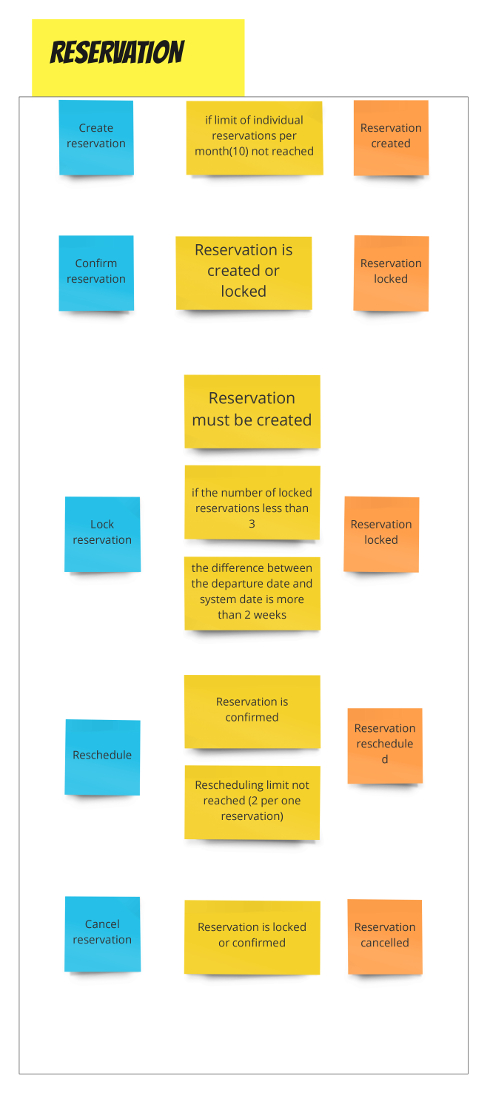
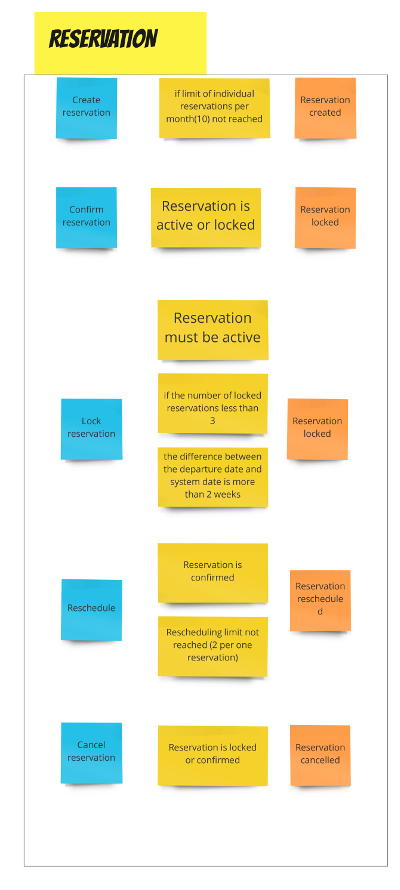
reservations

diff --git a/src/main/java/mw/ars/reservations/reservation/model/Reservation.java b/src/main/java/mw/ars/reservations/reservation/model/Reservation.java
@@ -1,28 +1,72 @@
 package mw.ars.reservations.reservation.model;
 
+import lombok.AllArgsConstructor;
 import mw.ars.commons.model.Result;
+import mw.ars.reservations.reservation.common.model.CustomerId;
+import mw.ars.reservations.reservation.common.model.FligtId;
+import mw.ars.reservations.reservation.common.model.ReservationId;
+import org.javamoney.moneta.Money;
 
 import java.time.LocalDate;
 import java.time.LocalDateTime;
 import java.time.Period;
+import java.util.UUID;
 
+@AllArgsConstructor
 public class Reservation {
-
-  private LockedReservation lockedReservation;
-  private MonthlyReservation monthlyReservation;
-  private RescheduledReservation rescheduledReservation;
-
-  private Status currentStatus;
+  private static int TWO_WEEKS_DAYS = 14;
+  private ReservationId id;
+  private CustomerId customerId;
+  private FligtId flightId;
   private LocalDateTime departureDate;
+  private Money price;
+
+  private CurrentlyLocked currentlyLocked;
+  private ReservedThisMonth reservedThisMonth;
+  private RescheduledSoFar rescheduledSoFar;
+  private Status currentStatus;
+
+  private Reservation(
+      CustomerId customerId,
+      FligtId flightId,
+      LocalDateTime departureDate,
+      Money price,
+      CurrentlyLocked currentlyLocked,
+      ReservedThisMonth reservedThisMonth,
+      RescheduledSoFar rescheduledSoFar) {
+
+    this.id = ReservationId.of(UUID.randomUUID());
+    this.currentStatus = Status.NEW;
+
+    this.customerId = customerId;
+    this.flightId = flightId;
+    this.departureDate = departureDate;
+    this.price = price;
+    this.currentlyLocked = currentlyLocked;
+    this.reservedThisMonth = reservedThisMonth;
+    this.rescheduledSoFar = rescheduledSoFar;
+  }
+
+  public static Reservation of(
+      CustomerId customerId,
+      FligtId flightId,
+      LocalDateTime departureDate,
+      Money price,
+      CurrentlyLocked currentlyLocked,
+      ReservedThisMonth reservedThisMonth,
+      RescheduledSoFar rescheduledSoFar) {
+
+    return new Reservation(
+        customerId, flightId, departureDate, price, currentlyLocked, reservedThisMonth, rescheduledSoFar);
+  }
 
   // BLUE CARD
-
-  public Result create() {
-    if (monthlyReservation.limitReached()) {
+  public Result activate() {
+    if (reservedThisMonth.limitReached()) {
       return Result.failure();
     }
-    currentStatus = Status.NEW;
-    monthlyReservation.create();
+    currentStatus = Status.ACTIVE;
+    reservedThisMonth.create();
     return Result.success();
   }
 
@@ -36,20 +80,20 @@ public class Reservation {
   }
   // BLUE CARD
   public Result lock() {
-    if (!isCreated() || departureDateLessThan() || lockedReservation.limitReached()) {
+    if (!isCreated() || departureDateLessThan() || currentlyLocked.limitReached()) {
       return Result.failure();
     }
     currentStatus = Status.LOCKED;
-    lockedReservation.lock();
+    currentlyLocked.add();
     return Result.success();
   }
   // BLUE CARD
 
   public Result reschedule() {
-    if (!isConfirmed() || rescheduledReservation.limitReached()) {
+    if (!isConfirmed() || rescheduledSoFar.limitReached()) {
       return Result.failure();
     }
-    rescheduledReservation.reschedule();
+    rescheduledSoFar.add();
     currentStatus = Status.RESCHEDULED;
     return Result.success();
   }
@@ -76,8 +120,7 @@ public class Reservation {
   }
 
   private boolean departureDateLessThan() {
-    return Period.between(LocalDate.now(), departureDate.toLocalDate()).getDays()
-        < LockedReservation.TWO_WEEKS_DAYS;
+    return Period.between(LocalDate.now(), departureDate.toLocalDate()).getDays() < TWO_WEEKS_DAYS;
   }
 
   enum Status {
@@ -85,49 +128,61 @@ public class Reservation {
     LOCKED,
     CONFIRMED,
     CANCELED,
-    RESCHEDULED;
+    RESCHEDULED,
+    ACTIVE
   }
 
-  public static class MonthlyReservation {
-
+  @AllArgsConstructor
+  public static class ReservedThisMonth {
     private static int RESERVATIONS_PER_MONTH_LIMIT = 10;
-    private int reservedInThisMonth;
+    private int bookedThisMonth;
+
+    public static ReservedThisMonth of(int reservedInMonth) {
+      return new ReservedThisMonth(reservedInMonth);
+    }
 
     boolean limitReached() {
-      return reservedInThisMonth == RESERVATIONS_PER_MONTH_LIMIT;
+      return bookedThisMonth == RESERVATIONS_PER_MONTH_LIMIT;
     }
 
     void create() {
-      reservedInThisMonth++;
+      bookedThisMonth++;
     }
   }
 
-  public static class RescheduledReservation {
+  @AllArgsConstructor
+  public static class RescheduledSoFar {
 
     static int RESCHEDULING_LIMIT = 3;
     int rescheduledSoFar;
+
+    public static RescheduledSoFar of(int rescheduledSoFar) {
+      return new RescheduledSoFar(rescheduledSoFar);
+    }
 
     boolean limitReached() {
       return rescheduledSoFar == RESCHEDULING_LIMIT;
     }
 
-    void reschedule() {
+    void add() {
       rescheduledSoFar++;
     }
   }
 
-  public static class LockedReservation {
-
+  @AllArgsConstructor
+  public static class CurrentlyLocked {
     private static int LOCKED_RESERVATION_LIMIT = 3;
-
-    private static int TWO_WEEKS_DAYS = 14;
     private int lockedSoFar;
+
+    public static CurrentlyLocked of(int lockedSoFar) {
+      return new CurrentlyLocked(lockedSoFar);
+    }
 
     boolean limitReached() {
       return lockedSoFar == LOCKED_RESERVATION_LIMIT;
     }
 
-    void lock() {
+    void add() {
       lockedSoFar++;
     }
   }

diff --git a/src/test/java/mw/ars/reservations/reservation/model/ReservationFixture.java b/src/test/java/mw/ars/reservations/reservation/model/ReservationFixture.java
@@ -1,0 +1,30 @@
+package mw.ars.reservations.reservation.model;
+
+import mw.ars.reservations.reservation.common.model.CustomerId;
+import mw.ars.reservations.reservation.common.model.FligtId;
+import org.javamoney.moneta.Money;
+
+import javax.money.Monetary;
+import java.math.BigDecimal;
+import java.time.LocalDateTime;
+import java.util.UUID;
+
+class ReservationFixture {
+
+  public static Reservation simple() { return reservation(0,0,0); }
+
+
+
+  private static Reservation reservation(int lockedSoFar, int reservedThisMonth, int rescheduledSoFar) {
+    return Reservation.of(
+            CustomerId.of(UUID.randomUUID()),
+            FligtId.of(UUID.randomUUID()),
+            LocalDateTime.now(),
+            Money.of(new BigDecimal(10), Monetary.getCurrency("USD")),
+            Reservation.CurrentlyLocked.of(lockedSoFar),
+            Reservation.ReservedThisMonth.of(reservedThisMonth),
+            Reservation.RescheduledSoFar.of(rescheduledSoFar));
+
+  }
+
+}

diff --git a/src/main/java/mw/ars/reservations/reservation/common/model/ReservationId.java b/src/main/java/mw/ars/reservations/reservation/common/model/ReservationId.java
@@ -1,0 +1,15 @@
+package mw.ars.reservations.reservation.common.model;
+
+import java.util.UUID;
+
+public class ReservationId {
+    private UUID id;
+
+    private ReservationId(UUID id){
+        this.id=id;
+    }
+
+    public static ReservationId of(UUID id){
+        return new ReservationId(id);
+    }
+}

diff --git a/src/main/java/mw/ars/reservations/reservation/common/model/CustomerId.java b/src/main/java/mw/ars/reservations/reservation/common/model/CustomerId.java
@@ -1,0 +1,15 @@
+package mw.ars.reservations.reservation.common.model;
+
+import java.util.UUID;
+
+public class CustomerId{
+    private UUID id;
+
+    private CustomerId(UUID id){
+        this.id=id;
+    }
+
+    public static CustomerId of(UUID id){
+        return new CustomerId(id);
+    }
+}

diff --git a/src/main/java/mw/ars/reservations/reservation/common/model/FligtId.java b/src/main/java/mw/ars/reservations/reservation/common/model/FligtId.java
@@ -1,0 +1,15 @@
+package mw.ars.reservations.reservation.common.model;
+
+import java.util.UUID;
+
+public class FligtId{
+    private UUID id;
+
+    private FligtId(UUID id){
+        this.id=id;
+    }
+
+    public static FligtId of(UUID id){
+        return new FligtId(id);
+    }
+}

diff --git a/readme.md b/readme.md
@@ -328,7 +328,7 @@ public class Reservation {
     return Result.success();
   }
   //BLUE CARD
-  public Result lock() {
+  public Result currentlyLocked() {
     //YELLOW CARD
     if(!isCreated()||departureDateLessThan()||limitLockedReservationReached()){
         return Result.failure();
@@ -373,27 +373,27 @@ class ReservationTest {
   @Test
   void shouldNotCreateReservationLimitExceeded() {}
 
-  @DisplayName("Should lock reservation when it is new")
+  @DisplayName("Should currentlyLocked reservation when it is new")
   @Test
   void shouldLockCreatedReservation() {}
 
-  @DisplayName("Should not lock when reservation is confirmed")
+  @DisplayName("Should not currentlyLocked when reservation is confirmed")
   @Test
   void shouldNotLockConfirmedReservation() {}
 
-  @DisplayName("Should lock when number of locked reservations equals 2")
+  @DisplayName("Should currentlyLocked when number of locked reservations equals 2")
   @Test
   void shouldLockWhenNumberOfLockedReservationsEquals2() {}
 
-  @DisplayName("Should not lock when number of locked reservations eqals 3")
+  @DisplayName("Should not currentlyLocked when number of locked reservations eqals 3")
   @Test
   void shouldNotLockWhenNumberOfLockedReservationsEqals3() {}
 
-  @DisplayName("Should lock when departure date more than 2 weeks")
+  @DisplayName("Should currentlyLocked when departure date more than 2 weeks")
   @Test
   void shouldLockWhenDepartureDateMoreThan2Weeks() {}
 
-  @DisplayName("Should not lock when departure date less than 2 weeks")
+  @DisplayName("Should not currentlyLocked when departure date less than 2 weeks")
   @Test
   void shouldNotLockWhenDepartureDateLessThan2Weeks() {}
 
